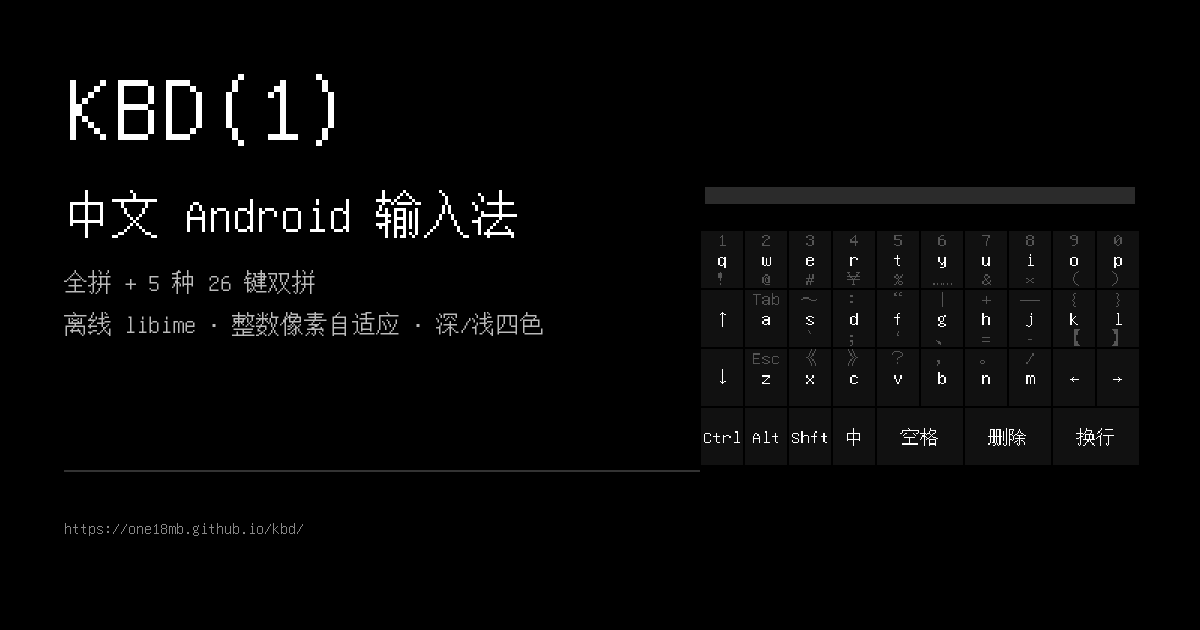
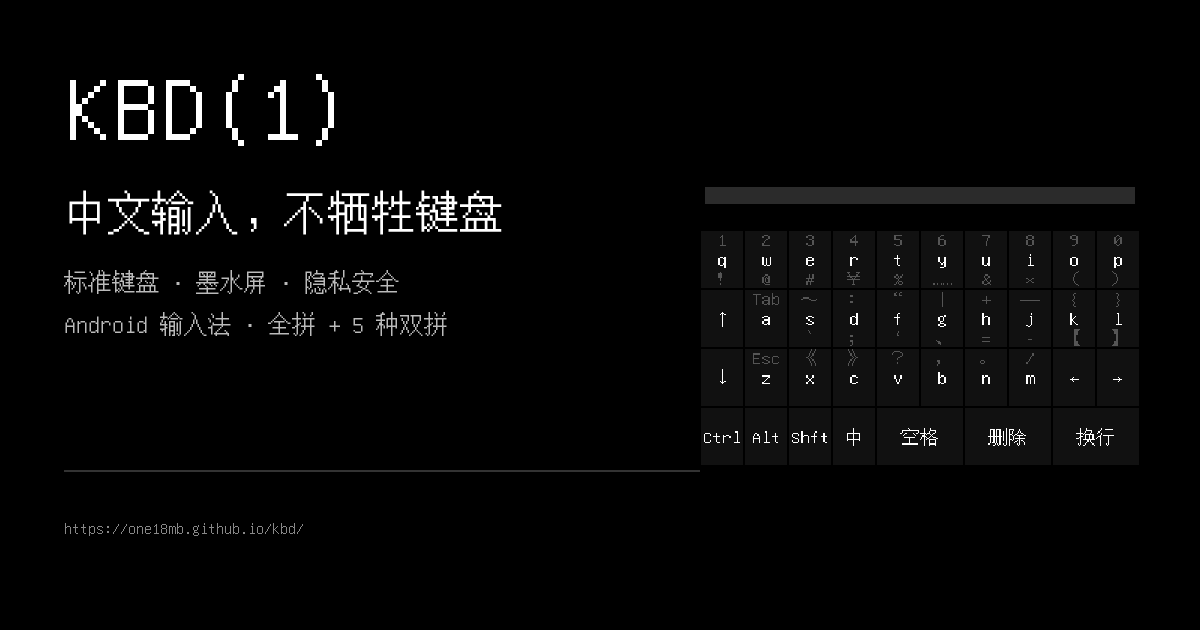
docs: 重设官网卖点为标准键盘与墨水屏，补充适用人群

Changed region(s): [[0.0308, 0.4222, 0.4625, 0.5429], [0.0617, 0.3016, 0.4317, 0.3921]]

diff --git a/webdemo/index.html b/webdemo/index.html
@@ -3,13 +3,13 @@
 <head>
   <meta charset="UTF-8">
   <meta name="viewport" content="width=device-width, initial-scale=1.0">
-  <title>KBD — 中文 Android 输入法</title>
-  <meta name="description" content="KBD 是离线中文 Android 输入法：全拼 + 5 种 26 键双拼，libime 本地引擎，按屏幕宽高整数像素自适应，深/浅四色主题，GPL-3.0 开源。">
-  <meta name="keywords" content="KBD,中文输入法,Android输入法,安卓输入法,拼音输入法,双拼,全拼,小鹤双拼,自然码,离线输入法">
+  <title>KBD — 给极客的中文 Android 输入法</title>
+  <meta name="description" content="KBD 是面向极客的中文 Android 输入法：完整标准键盘（Ctrl/Alt/Shift、Tab/Esc、方向键）+ 中文拼音，整数像素排版适合墨水屏；离线运行，不申请网络权限。">
+  <meta name="keywords" content="KBD,中文输入法,Android输入法,标准键盘,快捷键,墨水屏,e-ink,拼音输入法,双拼,离线输入法,隐私">
   <link rel="canonical" href="https://one18mb.github.io/kbd/">
   <meta property="og:type" content="website">
-  <meta property="og:title" content="KBD — 中文 Android 输入法">
-  <meta property="og:description" content="全拼 + 5 种 26 键双拼，离线 libime 引擎，整数像素自适应布局。">
+  <meta property="og:title" content="KBD — 中文输入，不牺牲键盘">
+  <meta property="og:description" content="完整标准键盘 + 墨水屏友好的整数像素排版；离线运行，不申请网络权限。">
   <meta property="og:url" content="https://one18mb.github.io/kbd/">
   <meta property="og:image" content="https://one18mb.github.io/kbd/assets/og.png">
   <meta name="twitter:card" content="summary_large_image">
@@ -24,7 +24,7 @@
     "name": "KBD",
     "applicationCategory": "UtilitiesApplication",
     "operatingSystem": "Android 8.0+",
-    "description": "离线中文 Android 输入法，全拼 + 5 种 26 键双拼，整数像素自适应布局。",
+    "description": "面向极客的中文 Android 输入法：完整标准键盘、墨水屏友好的整数像素排版、离线隐私。",
     "url": "https://one18mb.github.io/kbd/",
     "downloadUrl": "https://github.com/one18mb/kbd/releases/latest",
     "license": "https://www.gnu.org/licenses/gpl-3.0.html",
@@ -38,7 +38,7 @@
     <nav class="site-nav" aria-label="主导航">
       <a href="#demo">试用</a>
       <a href="#features">特性</a>
-      <a href="#schemes">双拼</a>
+      <a href="#audience">适合</a>
       <a href="#install">安装</a>
       <a href="#developers">文档</a>
       <a href="https://github.com/one18mb/kbd" target="_blank" rel="noopener">GitHub</a>
@@ -49,9 +49,9 @@
   <main id="top">
     <section class="hero">
       <div class="hero-copy">
-        <p class="eyebrow display">离线 · 全拼 + 5 种 26 键双拼</p>
-        <h1 class="display">中文 Android<br>输入法</h1>
-        <p class="lede">KBD 用 libime 在本地完成拼音输入，键盘按屏幕宽高整数像素排版。没有网络权限，也不上传输入内容。</p>
+        <p class="eyebrow display">给极客的 Android 输入法 · 墨水屏友好</p>
+        <h1 class="display">中文输入，<br>不牺牲键盘</h1>
+        <p class="lede">KBD 把 Ctrl / Alt / Shift、Tab / Esc 和方向键带回中文输入；整数像素排版与四色高对比界面，适合墨水屏和静态显示。离线运行，不申请网络权限。</p>
         <div class="hero-actions">
           <a class="btn btn-primary display" id="downloadBtn" href="https://github.com/one18mb/kbd/releases/latest" target="_blank" rel="noopener">下载 APK</a>
           <a class="btn btn-ghost display" href="#demo">在线试用</a>
@@ -92,35 +92,63 @@
     <section class="section" id="features">
       <div class="section-head">
         <p class="eyebrow display">FEATURES</p>
-        <h2 class="display">为中文输入重做的键盘</h2>
+        <h2 class="display">先把标准键盘和墨水屏做对</h2>
         <p class="section-lede">不依赖云输入，不收集输入内容；布局和候选都在本机完成。</p>
       </div>
       <div class="card-grid">
         <article class="card">
-          <h3 class="display">整数像素自适应</h3>
-          <p>按窗口宽高与底部安全区计算模式和几何，键宽、字号、缝隙按整数推进；竖屏与横屏共用一套算法。</p>
+          <h3 class="display">完整标准键盘</h3>
+          <p>Ctrl / Alt / Shift、Tab / Esc、方向键和符号层都能组合；修饰键支持粘滞与锁定，适合终端、IDE 和远程桌面。</p>
+        </article>
+        <article class="card">
+          <h3 class="display">墨水屏友好</h3>
+          <p>整数像素网格、Unifont 点阵字和四色高对比，不依赖抗锯齿、渐变或半透明；在静态刷新设备上边界更清晰。</p>
+        </article>
+        <article class="card">
+          <h3 class="display">隐私安全</h3>
+          <p>不申请网络权限，不上传输入内容；词典、自学习词库和设置只保存在本机，卸载即清除。</p>
         </article>
         <article class="card">
           <h3 class="display">全拼 + 5 种双拼</h3>
-          <p>全拼、小鹤、自然码、智能ABC、中文之星、国标。长按空格后输入 <code>\zh=方案</code> 即可切换。</p>
+          <p>全拼、小鹤、自然码、智能ABC、中文之星、国标。默认全拼，长按空格输入 <code>\zh=方案</code> 切换。</p>
         </article>
         <article class="card">
-          <h3 class="display">离线与隐私</h3>
-          <p>词典与语言模型随应用内置，不申请网络权限，不上传输入内容；自学习词库只保存在本机。</p>
+          <h3 class="display">整数像素自适应</h3>
+          <p>按窗口宽高与底部安全区计算几何，竖屏与横屏共用一套算法；键宽、字号、缝隙按整数推进。</p>
         </article>
         <article class="card">
           <h3 class="display">自学习与上文</h3>
           <p>常用词和上一句上下文参与候选，跨输入框保留 10 字上文；切换应用不会丢上下文。</p>
         </article>
-        <article class="card">
-          <h3 class="display">四色主题</h3>
-          <p>深/浅两套四色皮肤，<code>\sk=dark|light|auto</code> 切换；无边框按键只比背景亮一档。</p>
+      </div>
+    </section>
+
+    <section class="section" id="audience">
+      <div class="section-head">
+        <p class="eyebrow display">AUDIENCE</p>
+        <h2 class="display">适合谁，不适合谁</h2>
+        <p class="section-lede">KBD 不是全能输入法；它优先服务一类明确的需求。</p>
+      </div>
+      <div class="audience-grid">
+        <article class="card audience-card">
+          <h3 class="display">适合</h3>
+          <ul>
+            <li>既要日常中文输入，也要标准键盘快捷键的极客</li>
+            <li>终端、IDE、远程桌面、SSH 等需要 Tab / Esc / Ctrl 的场景</li>
+            <li>墨水屏设备：阅读为主，但偶尔需要中文输入</li>
+            <li>在意离线、无网络权限和本地词库的用户</li>
+          </ul>
         </article>
-        <article class="card">
-          <h3 class="display">标准键盘能力</h3>
-          <p>Ctrl / Alt / Shift 组合键、Tab / Esc、方向键、符号层翻页、长按锁定与连发。</p>
+        <article class="card audience-card">
+          <h3 class="display">不适合</h3>
+          <ul>
+            <li>只习惯九宫格输入的用户（KBD 只提供 26 键布局）</li>
+            <li>依赖语音输入的用户（KBD 不提供语音）</li>
+            <li>追求花哨皮肤、动画或云输入的用户</li>
+          </ul>
         </article>
       </div>
+      <p class="section-note">墨水屏用户通常以阅读为主；KBD 不是阅读器输入方案，但在需要输入时，它的布局比常见输入法更可控。</p>
     </section>
 
     <section class="section" id="schemes">

diff --git a/webdemo/css/site.css b/webdemo/css/site.css
@@ -373,6 +373,36 @@ h2 {
   color: var(--muted-text);
 }
 
+.audience-grid {
+  display: grid;
+  grid-template-columns: repeat(2, minmax(0, 1fr));
+  gap: 16px;
+}
+
+@media (max-width: 760px) {
+  .audience-grid {
+    grid-template-columns: 1fr;
+  }
+}
+
+.audience-card ul {
+  margin: 8px 0 0;
+  padding-left: 1.2em;
+  color: var(--muted-text);
+  font-size: 14px;
+}
+
+.audience-card li + li {
+  margin-top: 6px;
+}
+
+.section-note {
+  max-width: 72ch;
+  margin: 18px 0 0;
+  color: var(--muted-text);
+  font-size: 13px;
+}
+
 /* ---------- schemes ---------- */
 
 .scheme-grid {

diff --git a/README.md b/README.md
@@ -2,7 +2,7 @@
 
 最新发布：**1.2.1**。本 README 描述 `main` 分支。
 
-面向中文的 Android（安卓）拼音输入法。离线 libime 引擎，键盘几何按屏幕宽高自适应，竖屏与横屏共用一套布局算法。
+面向极客的中文 Android（安卓）输入法：完整标准键盘 + 墨水屏友好的整数像素排版。离线运行，不申请网络权限。
 
 ## 截图
 
@@ -16,12 +16,21 @@
 
 ## 特性
 
+- **完整标准键盘**：Ctrl/Alt/Shift、Tab/Esc、方向键和符号层都能组合；修饰键支持粘滞与锁定，适合终端、IDE、远程桌面。
+- **墨水屏友好**：整数像素网格、Unifont 点阵字、四色高对比，不依赖抗锯齿、渐变或半透明；静态刷新设备上边界更清晰。
+- **隐私安全**：不申请网络权限，不上传输入内容；词典、自学习词库和设置只保存在本机，卸载即清除。
 - **全拼 + 5 种 26 键双拼**：全拼、小鹤、自然码、智能ABC、中文之星、国标。默认全拼。
 - **整数像素自适应**：按窗口 `W/H` 选择竖/横模式，键宽、字号、缝隙、边距按整数像素推进。
-- **四色无边框视觉**：深/浅两套四色主题，`\sk` 切换。
 - **自学习与上文联想**：常用词与上一句上下文参与候选，跨输入框保留 10 字上文。
-- **标准键盘能力**：Ctrl/Alt/Shift 组合键、Tab/Esc、符号层翻页、长按锁定/连发。
-- **应用内手册**：桌面 KBD 图标打开 manpage 风格手册，含用法、命令、隐私、许可与赞赏码。
+
+## 适合谁
+
+KBD 不是全能输入法：只提供 26 键布局，不支持九宫格和语音输入。
+
+- **适合**：需要中文输入 + 标准键盘能力的极客；终端、IDE、远程桌面；墨水屏设备（阅读为主，偶尔输入）。
+- **不适合**：只习惯九宫格、依赖语音输入，或需要花哨皮肤、动画和云输入的用户。
+
+墨水屏用户通常以阅读为主，KBD 不是阅读器输入方案；但在需要输入时，它的布局比常见输入法更可控。
 
 ## 安装
 
